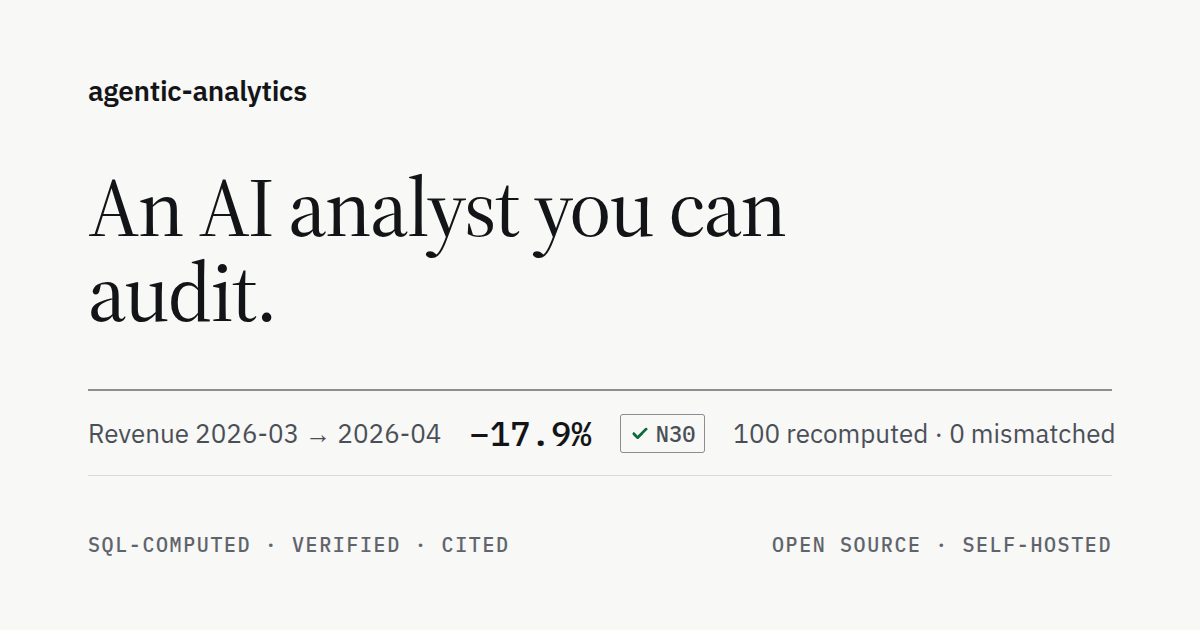
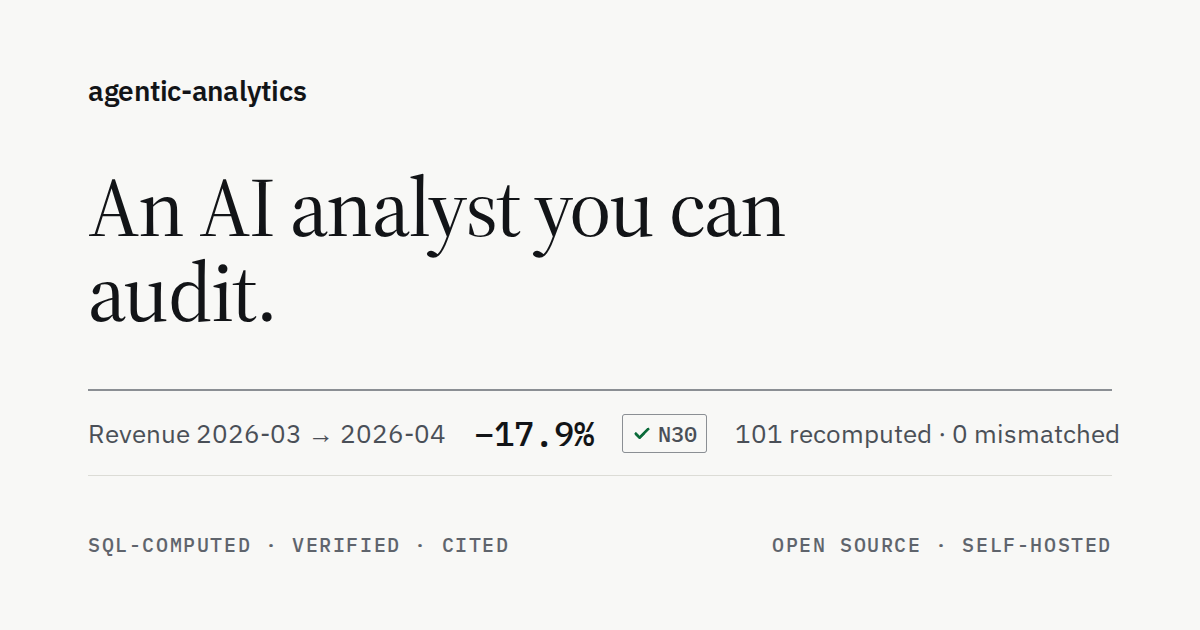
chore: regenerate the artifacts derived from the coffee-roaster run and the real tier
One more fact in the demo report (the business-model share) moves the
numbers-checked count in the pipeline data, README GIFs, learn.json, site
assets and the published real-tier results.

diff --git a/evals/RESULTS.md b/evals/RESULTS.md
@@ -329,12 +329,12 @@ Baseline: the scripted heuristic, no language model. On real files it drafts met
 
 #### Hotel booking demand datasets (Data in Brief (Elsevier), CC BY 4.0)
 
-Antonio, N., de Almeida, A., & Nunes, L. (2019). Hotel booking demand datasets. Data in Brief, 22, 41–49. https://doi.org/10.1016/j.dib.2018.11.126. File read: `hotel-bookings.csv` (SHA-256 `3b22c26428ec…`). Completed in 27.4 s · 4/6 checks pass.
+Antonio, N., de Almeida, A., & Nunes, L. (2019). Hotel booking demand datasets. Data in Brief, 22, 41–49. https://doi.org/10.1016/j.dib.2018.11.126. File read: `hotel-bookings.csv` (SHA-256 `3b22c26428ec…`). Completed in 26.2 s · 4/6 checks pass.
 
 | Check | Pass | What the report shows |
 |---|---|---|
 | C1: The job completes on 119,390 bookings with the published padding and "NULL" text left in | yes | report with 5 findings, 3 data-quality items |
-| C2: Every number re-computes (no mismatch, re-derivation mismatch or definition violation) | yes | 106 numbers recomputed before the report shipped (a mismatch would have stopped the job), 0 claims dropped for breaking a definition |
+| C2: Every number re-computes (no mismatch, re-derivation mismatch or definition violation) | yes | 107 numbers recomputed before the report shipped (a mismatch would have stopped the job), 0 claims dropped for breaking a definition |
 | C3: The summer peak: August is the top month of room revenue in 2015, 2016 and 2017 (G2) | yes | 2015 peak 2015-08; 2016 peak 2016-08; 2017 peak 2017-08; 3/3 values equal SQL |
 | C4: The autumn fall is not reported as news: bookings in November are below October in both years (G2) | **no** | 1 of 5 findings: F2 2015-10→2015-11 (contribution.v1) |
 | C5: Missing values: Children is NA in 4 bookings (G1) | yes | Q3 missing_value: 4 rows (N624), SQL 4; cites rows 40602, 40669, 40681… |
@@ -344,7 +344,7 @@ Metrics: room_revenue, room_nights, bookings, cancellation_rate. Data-quality ki
 
 #### Warehouse and Retail Sales (Montgomery County, Maryland), 2017–2020 (Montgomery County, MD (Department of Liquor Control, on data.montgomerycountymd.gov), Public domain)
 
-Source: Montgomery County, MD. Warehouse and Retail Sales, data.montgomerycountymd.gov/d/v76h-r7br (Public Domain). File read: `montgomery-warehouse-sales.csv` (SHA-256 `b1f5450e132c…`). Completed in 147.8 s · 2/2 checks pass.
+Source: Montgomery County, MD. Warehouse and Retail Sales, data.montgomerycountymd.gov/d/v76h-r7br (Public Domain). File read: `montgomery-warehouse-sales.csv` (SHA-256 `b1f5450e132c…`). Completed in 141.7 s · 2/2 checks pass.
 
 | Check | Pass | What the report shows |
 |---|---|---|
@@ -355,7 +355,7 @@ Metrics: none. Data-quality kinds: unparseable_value, missing_id, missing_value.
 
 #### Electronic card transactions, September 2026 (Stats NZ (Tatauranga Aotearoa), CC BY 4.0)
 
-This work is based on Stats NZ's data (Electronic card transactions: September 2026) which are licensed by Stats NZ for reuse under the Creative Commons Attribution 4.0 International licence. File read: `nz-card-spend-by-industry.csv` (SHA-256 `63ff45be4c78…`). Completed in 8.0 s · 5/5 checks pass.
+This work is based on Stats NZ's data (Electronic card transactions: September 2026) which are licensed by Stats NZ for reuse under the Creative Commons Attribution 4.0 International licence. File read: `nz-card-spend-by-industry.csv` (SHA-256 `63ff45be4c78…`). Completed in 6.7 s · 5/5 checks pass.
 
 | Check | Pass | What the report shows |
 |---|---|---|
@@ -369,12 +369,12 @@ Metrics: card_spend. Data-quality kinds: missing_value. Findings: anomaly: card_
 
 #### Online Retail II (UCI Machine Learning Repository, CC BY 4.0)
 
-Chen, D. (2012). Online Retail II [Dataset]. UCI Machine Learning Repository. https://doi.org/10.24432/C5CG6D. File read: `online_retail_II.sample10.csv` (SHA-256 `6d8dff8c0bff…`). Completed in 15.8 s · 7/7 checks pass.
+Chen, D. (2012). Online Retail II [Dataset]. UCI Machine Learning Repository. https://doi.org/10.24432/C5CG6D. File read: `online_retail_II.sample10.csv` (SHA-256 `6d8dff8c0bff…`). Completed in 13.9 s · 7/7 checks pass.
 
 | Check | Pass | What the report shows |
 |---|---|---|
 | C1: The job completes on a real 105,797-line file | yes | report with 2 findings, 3 data-quality items |
-| C2: Every number re-computes (no mismatch, re-derivation mismatch or definition violation) | yes | 31 numbers recomputed before the report shipped (a mismatch would have stopped the job), 0 claims dropped for breaking a definition |
+| C2: Every number re-computes (no mismatch, re-derivation mismatch or definition violation) | yes | 32 numbers recomputed before the report shipped (a mismatch would have stopped the job), 0 claims dropped for breaking a definition |
 | C3: Cancellations: invoice numbers starting with C (G1: 2,089 lines, 816 invoices) | yes | Q1 prefixed_id: 2089 rows (N120), SQL 2089; cites rows 58, 117, 118… |
 | C4: Negative quantities (G1: 2,431 lines) | yes | Q2 negative_quantity: 2431 rows (N121), SQL 2431; cites rows 58, 117, 118… |
 | C5: Missing customer IDs (G1: 21,051 lines) | yes | Q3 missing_id: 21051 rows (N122), SQL 21051; cites rows 156, 157, 158… |

diff --git a/README.md b/README.md
@@ -74,7 +74,7 @@ Full guide: [the docs site](https://gfirik.github.io/agentic-analytics/start/qui
   <source media="(prefers-reduced-motion: reduce)" srcset="docs/assets/readme/pipeline-light.png">
   <source media="(prefers-color-scheme: dark)" srcset="docs/assets/readme/pipeline-dark.gif">
   <source media="(prefers-color-scheme: light)" srcset="docs/assets/readme/pipeline-light.gif">
-  <img alt="Animated pipeline on examples/coffee-roaster (a real engine run, scripted planner, no LLM; its stages follow the run's 31-event log): email-0412.eml, ops-notes.docx, price-list.pdf, sales-2026.xlsx flow in; profiling finds 3 tables and 9 document sections; the Revenue metric is defined in plain words; DuckDB SQL computes Revenue $44,100 in 2026-03 and $36,200 in 2026-04, −17.9% (fact N30); the driver is wholesale (−$8,500, 108% of the drop); email-0412.eml from Purchasing, Hotel Group is cited: “After the new price list we are pausing our standing order while we compare suppliers.”; a web benchmark is cited and labelled External; the verifier runs V1–V8 and recomputes 100 numbers with 0 mismatches; the report's top-ranked action: Offer wholesale accounts a volume-tier discount to win back paused standing orders (+$3,995 to +$7,191, next quarter)." src="docs/assets/readme/pipeline-light.png" width="100%">
+  <img alt="Animated pipeline on examples/coffee-roaster (a real engine run, scripted planner, no LLM; its stages follow the run's 31-event log): email-0412.eml, ops-notes.docx, price-list.pdf, sales-2026.xlsx flow in; profiling finds 3 tables and 9 document sections; the Revenue metric is defined in plain words; DuckDB SQL computes Revenue $44,100 in 2026-03 and $36,200 in 2026-04, −17.9% (fact N30); the driver is wholesale (−$8,500, 108% of the drop); email-0412.eml from Purchasing, Hotel Group is cited: “After the new price list we are pausing our standing order while we compare suppliers.”; a web benchmark is cited and labelled External; the verifier runs V1–V8 and recomputes 101 numbers with 0 mismatches; the report's top-ranked action: Offer wholesale accounts a volume-tier discount to win back paused standing orders (+$3,995 to +$7,191, next quarter)." src="docs/assets/readme/pipeline-light.png" width="100%">
 </picture>
 
 <sub>One real engine run on `examples/coffee-roaster` with the scripted planner (no LLM) and an offline web fixture: every number on screen comes from that run: facts are shown with their ids, counts come from the report and the verifier's check table, and the stages follow its event log. Recorded by `scripts/readme-assets/pipeline-gif.ts` from the same animation as the docs site.</sub>
